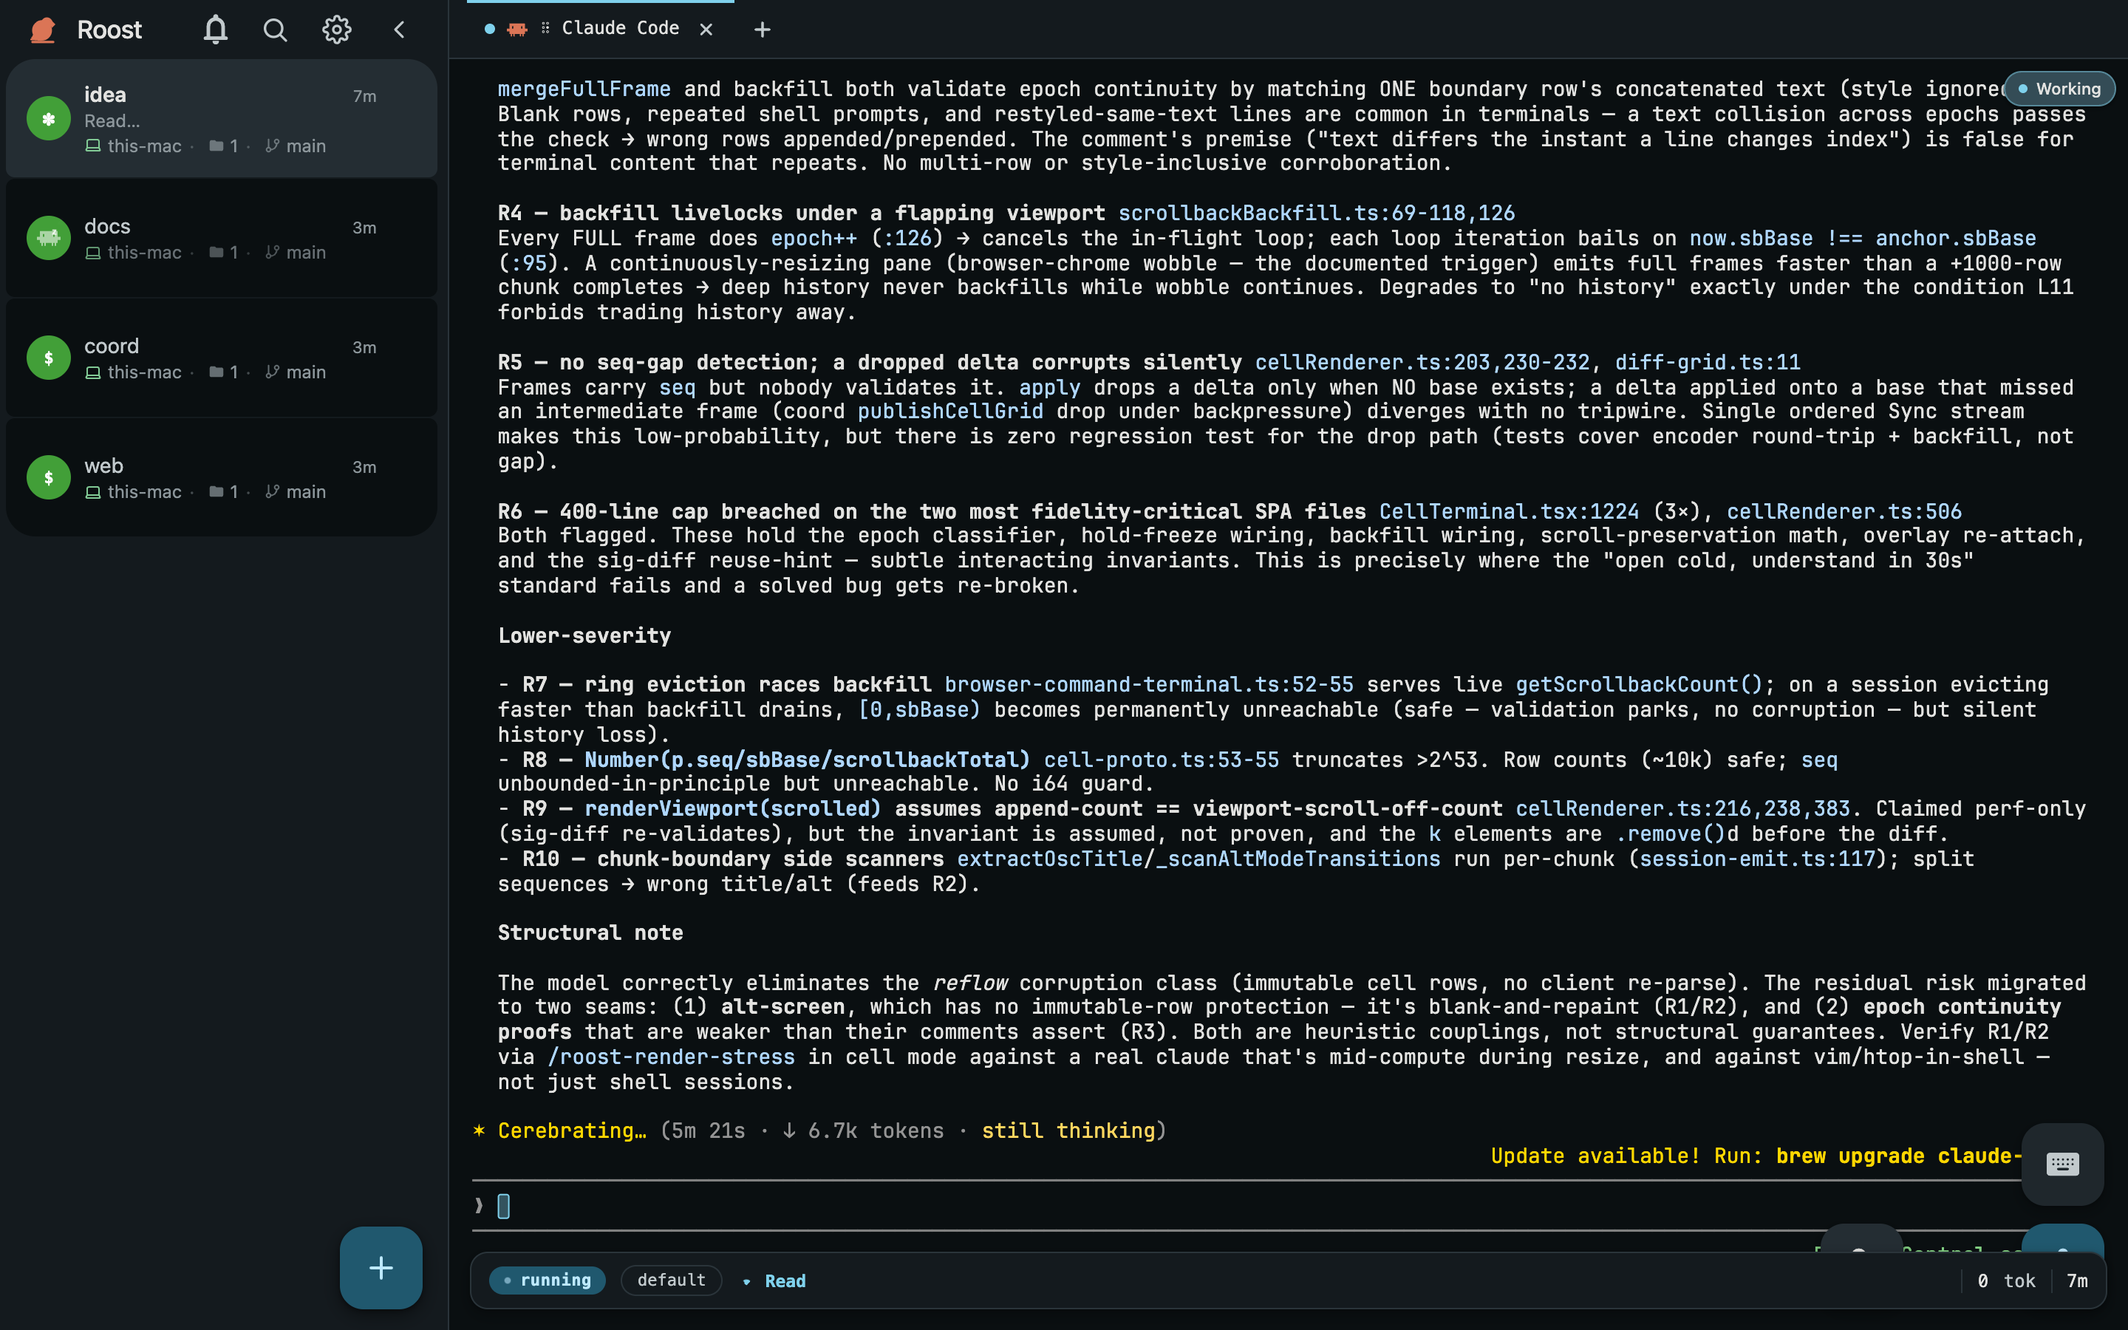
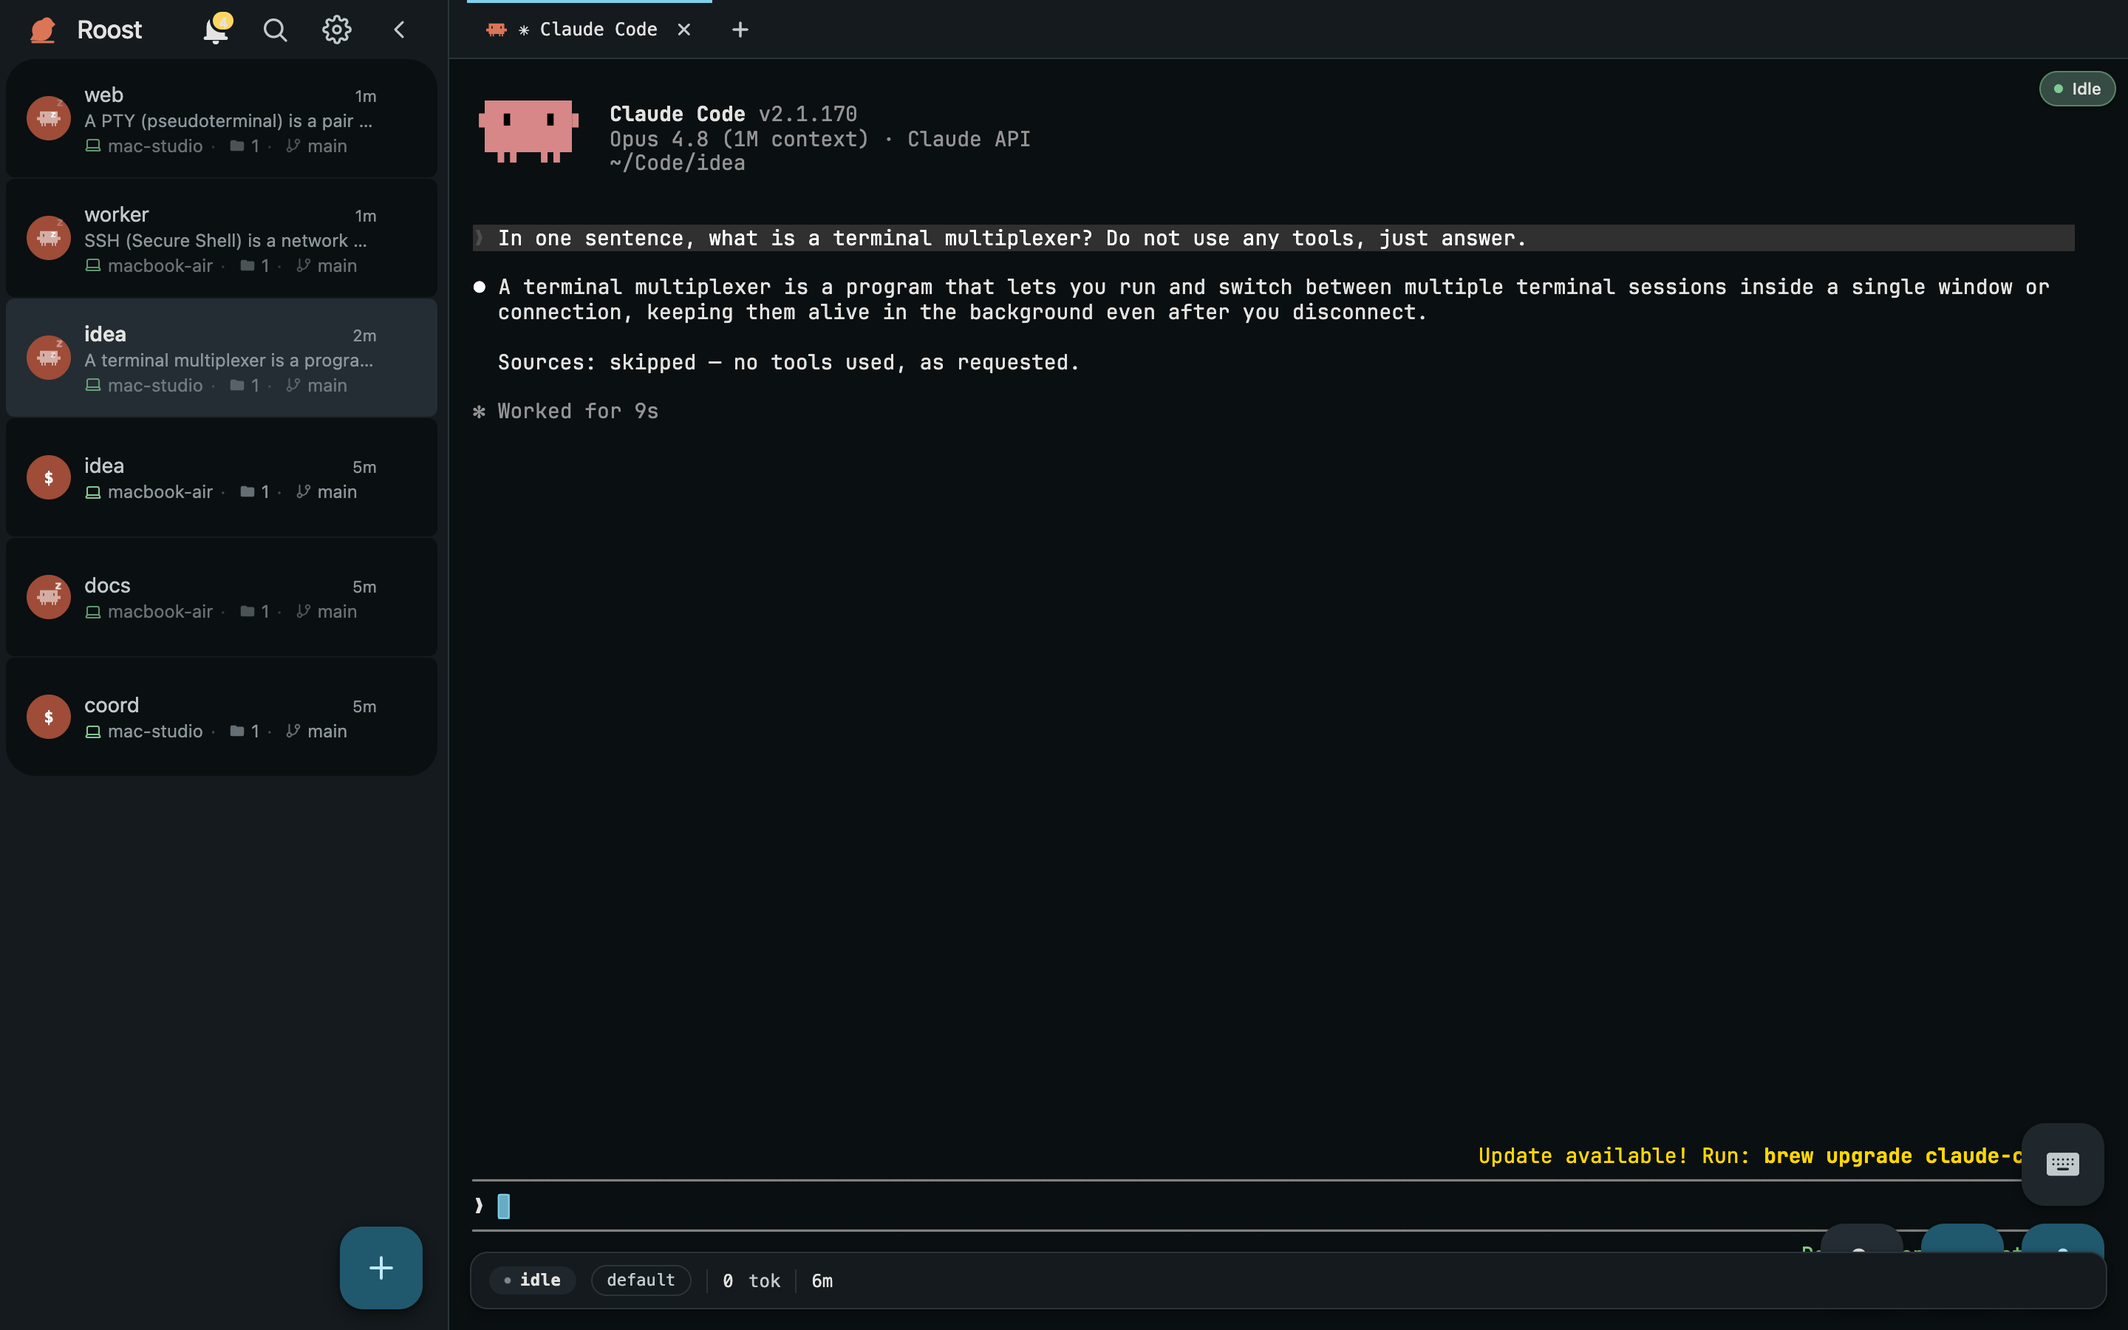
docs: rewrite README for multi-Mac terminal control; add mobile/tablet/split screenshots

diff --git a/README.md b/README.md
@@ -5,9 +5,9 @@
 
 # Roost
 
-**Run all your coding agents from one browser tab — and always know which one needs you.**
+**One place to reach every Mac you own — and drive a real terminal on any of them, from any device.**
 
-A self-hosted control plane for Claude Code, pi, and oh-my-pi across every Mac you own, over your own Tailscale network. Nothing touches a cloud.
+Connect all your Macs to a single coordinator, then open, control, and split full native terminals across them from one browser tab — laptop, phone, or tablet — over your own network. Full native control, run anything. It's tuned for coding agents (Claude Code, pi, oh-my-pi), but an agent is optional — a plain shell is a first-class session. Self-hosted; nothing touches a cloud.
 
 [![License](https://img.shields.io/badge/license-GPL--3.0--only-blue)](LICENSE)
 ![Platform](https://img.shields.io/badge/platform-macOS-lightgrey)
@@ -16,43 +16,65 @@ A self-hosted control plane for Claude Code, pi, and oh-my-pi across every Mac y
 
 </div>
 
-![Roost — sidebar of live agents next to a working terminal](docs/media/hero.png)
+![Roost — a sidebar of live agents across two Macs next to a working terminal](docs/media/hero.png)
+
+## What it is
+
+Roost is one control plane for every computer you own: connect each Mac to a coordinator and you get full, native terminal control of all of them from a single browser tab. At its core it's a terminal multiplexer — like `tmux` or `screen`, except the screen is any browser on your network and the panes span every machine you own. It's tuned for coding agents: Claude Code, pi, oh-my-pi, and anything else that lives in a terminal. You don't strictly need an agent — a plain shell is a valid session — but agentic workflows are what it's built for.
+
+Set it up once and every terminal on every machine follows you. Reattach the same live session at your desk, from the couch on your phone, or on a tablet on the train — a **real** terminal, full ANSI and scrollback, driven by touch as comfortably as by a keyboard. There's no stripped-down "mobile view": coding agents are terminal-first and UI-second, so Roost perfects the terminal instead of wrapping it in a lossy chat window.
+
+If you've used `tmux`, `screen`, or `zellij`: those live inside one terminal on one machine, driven by a prefix-key grammar, and to reach another box you SSH in first. Roost turns that inside out. Every machine you own shows up in one place — be connected to ten computers at once with no SSH juggling — and you split, arrange, and switch panes by clicking or tapping, so it's approachable even if you've never touched a multiplexer. Still love tmux or zellij? Run them inside a Roost session; Roost just means you no longer have to.
 
 ## The problem
 
-Run more than one or two coding-agent sessions and you lose the thread. Five terminal tabs across two Macs, and the one that's blocked on a permission prompt is the one you can't find. Roost puts every session on one screen and tells you, at a glance, which one needs you.
+Run more than one or two coding-agent sessions and you lose the thread. Five terminal tabs across two Macs, and the one blocked on a permission prompt is the one you can't find — and none of them is reachable when you're away from the desk. Roost puts every session, on every machine, on one screen you can open from anywhere, and tells you at a glance which one needs you.
 
 ## What you get
 
-**Every agent at a glance.** The sidebar shows each session's live state — working, waiting for input, or idle — with its model and cost-so-far. No more tabbing through terminals to find the blocked one. State is extracted from Claude Code's hooks or by screen-scraping the TUI; the agent's transcript is never consumed to get it.
+**Many machines, one screen.** Connect every Mac you own to one coordinator and drive all of them — natively — from a single browser tab. One coordinator plus any number of workers that dial outbound only (no inbound port on your other machines); the sidebar groups every live session by the machine it runs on, so ten computers are as easy to work as one, with no SSH juggling. Offload heavy, power-hungry runs onto a beefier box while you keep working on your laptop over the LAN. Works great with exactly one machine too.
 
-![The sidebar: each session's live state and machine, at a glance](docs/media/sidebar-status.png)
+![The sidebar: every session grouped by the machine it runs on, with live status and cost](docs/media/sidebar-status.png)
 
-**Sessions that don't die.** PTYs run in a keeper subprocess that outlives worker restarts. Drop WiFi, close the laptop, refresh, or reopen the same session on another Mac — the process is still running with full scrollback. Sessions are event-sourced and the byte stream is resumable from an offset, so reconnects splice back with no loss and no duplication.
+**A full terminal on any device.** The same real terminal renders in Chrome on your desktop and in Safari on your phone — full ANSI, colors, and scrollback, with touch selection, an on-screen key row, and gestures. Not a companion app, not a read-only mirror: you drive the agent from your phone exactly as you would from the terminal it's running in. Add it to your home screen and it installs as a real app (a `standalone` PWA): its own icon, full-screen, no browser chrome. I run it daily on iPhone and Android phones and on iPads and Android tablets — it behaves like it's supposed to, everywhere. On an iPad or Android tablet it's a desktop-grade surface — the same splits, panes, and shortcuts you use on a laptop, production-grade, not a cut-down view.
 
-**Multi-Mac, one screen.** One coordinator, any number of workers that dial outbound only — no inbound port on your other Macs. Drive all of them from a single tab. Works great with exactly one Mac too.
+![Desktop-grade on a tablet — the same real terminal and layout as a laptop](docs/media/tablet-desktop.png)
+
+![A real terminal on a phone — full ANSI, touch selection, and an on-screen key row](docs/media/mobile-phone.png)
+
+**Every agent at a glance.** The sidebar shows each session's live state — working, waiting for input, or idle — with its model and cost-so-far, grouped by the machine it runs on. No tabbing through terminals to find the blocked one. State is read from Claude Code's hooks or by screen-scraping the TUI; the agent's transcript is never consumed to get it.
+
+**Open a workspace wherever the work is.** No `cd`-ing around over SSH to find a project. Browse any machine's folders as a visual grid, drill in, and hit *Open terminal here* — a new workspace starts in that directory, on that machine. Every folder on every computer you own is a couple of clicks away in the same UI.
 
 ![A workspace: a tab bar of live sessions above one real terminal](docs/media/workspace-tabs.png)
 
+**Split the screen into as many terminals as you want.** A workspace isn't one terminal. Split it right or down (⌘D / ⌘⇧D) into a tiled grid of live panes, drag the dividers to resize, or hit an arrange preset — Grid, Columns, Rows, Main + stack, or Equalize — to auto-fill the space evenly. Every pane is a full session, and the layout follows you to every device.
+
+![Multiple terminals tiled in one workspace, auto-arranged to fill the screen](docs/media/split-panes.png)
+
+**Talk to your terminal.** Tap the mic and dictate straight into a session — the transcript is typed in as real input and sent, no review step. It works with zero setup using your browser's built-in speech recognition, but that's a rough fallback; for dictation that's actually good, add a Deepgram API key (Settings → Voice) — the recommended path, with far higher accuracy and multi-language support, stored once on the coordinator and shared across every device. Especially handy on a phone, where typing a long prompt is a chore.
+
+**Sessions that don't die.** PTYs run in a keeper subprocess that outlives worker restarts. Drop WiFi, close the laptop, refresh, or reopen the same session on another machine — the process is still running with full scrollback. Sessions are event-sourced and the byte stream is resumable from an offset, so reconnects splice back with no loss and no duplication.
+
 **The terminal IS the UI.** Your agent's raw TUI renders into a real WASM VT terminal (`@wterm/dom`), full ANSI and scrollback. There's no chat window to babysit — status is lifted off the screen without touching the transcript, so what you see is exactly what the agent drew.
 
-**Yours, not a SaaS.** It runs on your hardware over your tailnet. Auth is an EdDSA JWT minted in the browser with WebCrypto — the private key lives in IndexedDB and is never sent to the coordinator. No shared tokens, no accounts, no telemetry. Revoke a device by deleting a row.
+**Yours, not a SaaS.** It runs on your hardware over your own network. Auth is an EdDSA JWT minted in the browser with WebCrypto — the private key lives in IndexedDB and is never sent to the coordinator. No shared tokens, no accounts, no telemetry. Revoke a device by deleting a row.
 
 ## How it works
 
 ```text
-   Browser  (any device on your tailnet)
+   Browser  (any device on your network)
       │   Connect-RPC over HTTP/2, protobuf binary
       │   terminal bytes · agent events · all state, one connection
       ▼
  ┌─────────────────────────┐
  │ Coordinator  (Bun)      │   event-sourced SQLite · auth · session registry
- │ one Mac · port 4102     │   fans live updates out to every open browser
+ │ one machine · port 4102 │   fans live updates out to every open browser
  └───────────┬─────────────┘
-             │   raw WebSocket · protobuf frames · over Tailscale
+             │   raw WebSocket · protobuf frames · worker dials outbound
    ┌─────────┼───────────────────┐
    ▼         ▼                   ▼
- Worker    Worker              Worker        (Bun, one per Mac)
+ Worker    Worker              Worker        (Bun, one per machine)
  Mac A     Mac B               Mac C
    │  a keeper subprocess hosts every PTY and outlives worker restarts;
    │  a bridge reads each agent's hooks (Claude Code) or screen-scrapes
@@ -63,15 +85,21 @@ The coordinator is control and fan-out only. It holds an append-only event log t
 
 ## Supported agents
 
-- **Claude Code** — tracked via its `--settings` hooks (`worker claude/hooks.ts`).
-- **pi** (`pi-coding-agent`) — tracked by terminal screen-scrape (`detect/pi-manifest.ts`), no hooks needed.
-- **oh-my-pi** (`@oh-my-pi`) — screen-scrape (`detect/omp-manifest.ts`), no hooks needed.
+Roost tracks live status (working / waiting / idle, plus model and cost) for:
 
-Any other terminal app or plain shell works as a session; you just lose the status chip.
+- **Claude Code** — via its `--settings` hooks (`worker claude/hooks.ts`).
+- **pi** (`pi-coding-agent`) — via terminal screen-scrape (`detect/pi-manifest.ts`), no hooks needed.
+- **oh-my-pi** (`@oh-my-pi`) — via screen-scrape (`detect/omp-manifest.ts`), no hooks needed.
+
+Anything else that runs in a terminal works as a session too — you just don't get the status chip. That includes other agent CLIs (for example OpenAI Codex CLI, Gemini CLI, Aider, opencode, GitHub Copilot CLI, Cursor CLI) and any plain shell, REPL, or TUI. Adding first-class status tracking for another agent is a small screen-scrape manifest under `worker detect/`.
+
+## Network
+
+Roost talks over whatever network your devices share. It's built and tested on [Tailscale](https://tailscale.com) — it gives every device a stable name and connects your phone with no port-forwarding — and that's the recommended path. A Tailscale alternative (WireGuard, Headscale, ZeroTier, etc.) or a plain LAN works too, as long as your browser and the coordinator can reach each other; some conveniences that resolve a machine's tailnet name (one-click Screen Sharing / Open in Finder) are Tailscale-specific.
 
 ## Install
 
-Roost needs [Tailscale](https://tailscale.com) running (it's the network everything talks over) and at least one coding agent (Claude Code, pi, or oh-my-pi) on each Mac you'll run agents on. Then, on the Mac you want as the coordinator:
+Roost runs on macOS today and needs a shared network (Tailscale recommended) plus at least one coding agent (Claude Code, pi, or oh-my-pi) on each Mac you'll run agents on. On the Mac you want as the coordinator:
 
 ```sh
 curl -fsSL https://raw.githubusercontent.com/cefege/roost/main/install.sh | bash
@@ -79,18 +107,42 @@ curl -fsSL https://raw.githubusercontent.com/cefege/roost/main/install.sh | bash
 
 That installs Bun if needed, gets the code, starts the coordinator and a local worker, and opens Roost in your browser already signed in. No tokens to copy.
 
-Full walkthrough — pairing your phone, adding more Macs — is in [`GETTING_STARTED.md`](GETTING_STARTED.md). Adding another Mac is a pull, not a push: run `roost add-mac` on the coordinator (or **Settings → Machines → Add machine**) and paste the one-liner it prints on the new Mac. It self-installs and registers over the tailnet, no SSH.
+Two things make growing your fleet painless, no SSH and no tokens to hand-copy:
 
-## How Roost differs
+- **Add a phone or tablet by QR.** In **Settings → Pair a device**, scan the QR with your phone's camera — it opens Roost and signs itself in. Nothing to type.
+- **Add another Mac with one line.** Run `roost add-mac` on the coordinator (or **Settings → Machines → Add machine**) and paste the one-liner it prints on the new Mac. It self-installs and registers over the network — a pull, not a push.
 
-It's the inverse of Anthropic's Remote Control, which tethers a single Mac to claude.ai with a short timeout. Roost is a control plane you own, talking to as many Macs as you own, with no third party in the loop.
+Full walkthrough — pairing devices, adding machines — is in [`GETTING_STARTED.md`](GETTING_STARTED.md).
+
+![Pair a phone or tablet by scanning a QR — it signs itself in, nothing to type](docs/media/pair-qr.png)
+
+## Roost vs. driving agents from the cloud
+
+Claude on the web and on your phone is a control plane too — but it drives Anthropic-hosted cloud sandboxes, or a single local machine tethered with `claude rc`. You can't reach a *new* terminal on your own computer on demand: away from your desk you're limited to the sandboxes and sessions already running, and only Claude Code runs there. Roost inverts that — it's a control plane **you** own, talking to as many of **your** machines as you own, with no third party in the loop.
+
+|   | Claude on the web / phone | Roost |
+|---|---|---|
+| **What it drives** | Anthropic-hosted cloud sandboxes, or one local Mac tethered via `claude rc` | Every Mac you own, natively |
+| **Open a new terminal while away** | No — limited to sandboxes/sessions already running | Yes — open a fresh terminal in any folder on any machine, from your phone |
+| **What runs in it** | Claude Code only | Any agent, shell, REPL, or TUI |
+| **Where your code lives** | A cloud VM (or the one tethered Mac) | Your own hardware, your own network |
+| **The surface** | A chat window onto the agent | The real terminal — full ANSI, scrollback, touch |
+| **Hosting** | SaaS, tied to an account | Self-hosted, no account, no telemetry |
+
+Your Mac's browser stays perfectly usable for claude.ai — Roost isn't a replacement for it, it's the piece the cloud can't be: native control of your own fleet from anywhere.
+
+## Roadmap
+
+- **Headless servers** — run workers on always-on boxes, not just laptops, so heavy jobs live on the machine that should own them.
+- **Windows and Linux** — the worker and coordinator are Bun; the cross-platform desktop shell is scoped (`FEATURES/PLAN-NEUT.md`), macOS ships first.
+- **Multi-user** — the schema already models multiple operators; a UI for it is next.
 
 ## Status
 
 Early, and honest about it. I use Roost every day as my primary coding surface, so the paths I hit are solid. Paths I don't may be rough.
 
-- macOS only (uses macOS PTYs and LaunchAgents)
-- Requires Tailscale + at least one supported agent (Claude Code, pi, or oh-my-pi)
+- macOS only today (uses macOS PTYs and LaunchAgents)
+- Needs a shared network (Tailscale tested) + at least one supported agent (Claude Code, pi, or oh-my-pi)
 - Single-user today; the schema is built for multiple operators but there's no UI for it yet
 
 ## Built with
@@ -98,7 +150,7 @@ Early, and honest about it. I use Roost every day as my primary coding surface, 
 - **Web:** Solid + Vite, `@connectrpc/connect-web`, `@wterm/dom` (WASM terminal core)
 - **Coordinator:** Bun, Connect-RPC + protobuf, Kysely + `bun:sqlite`, event-sourced session log, EdDSA-JWT auth
 - **Workers:** Bun, native PTYs via `Bun.spawn`, hook + screen-scrape adapters for agent state
-- **Transport:** Connect-RPC (browser↔coordinator), protobuf-over-WebSocket (worker↔coordinator), all over Tailscale
+- **Transport:** Connect-RPC (browser↔coordinator), protobuf-over-WebSocket (worker↔coordinator)
 
 ## License
 
